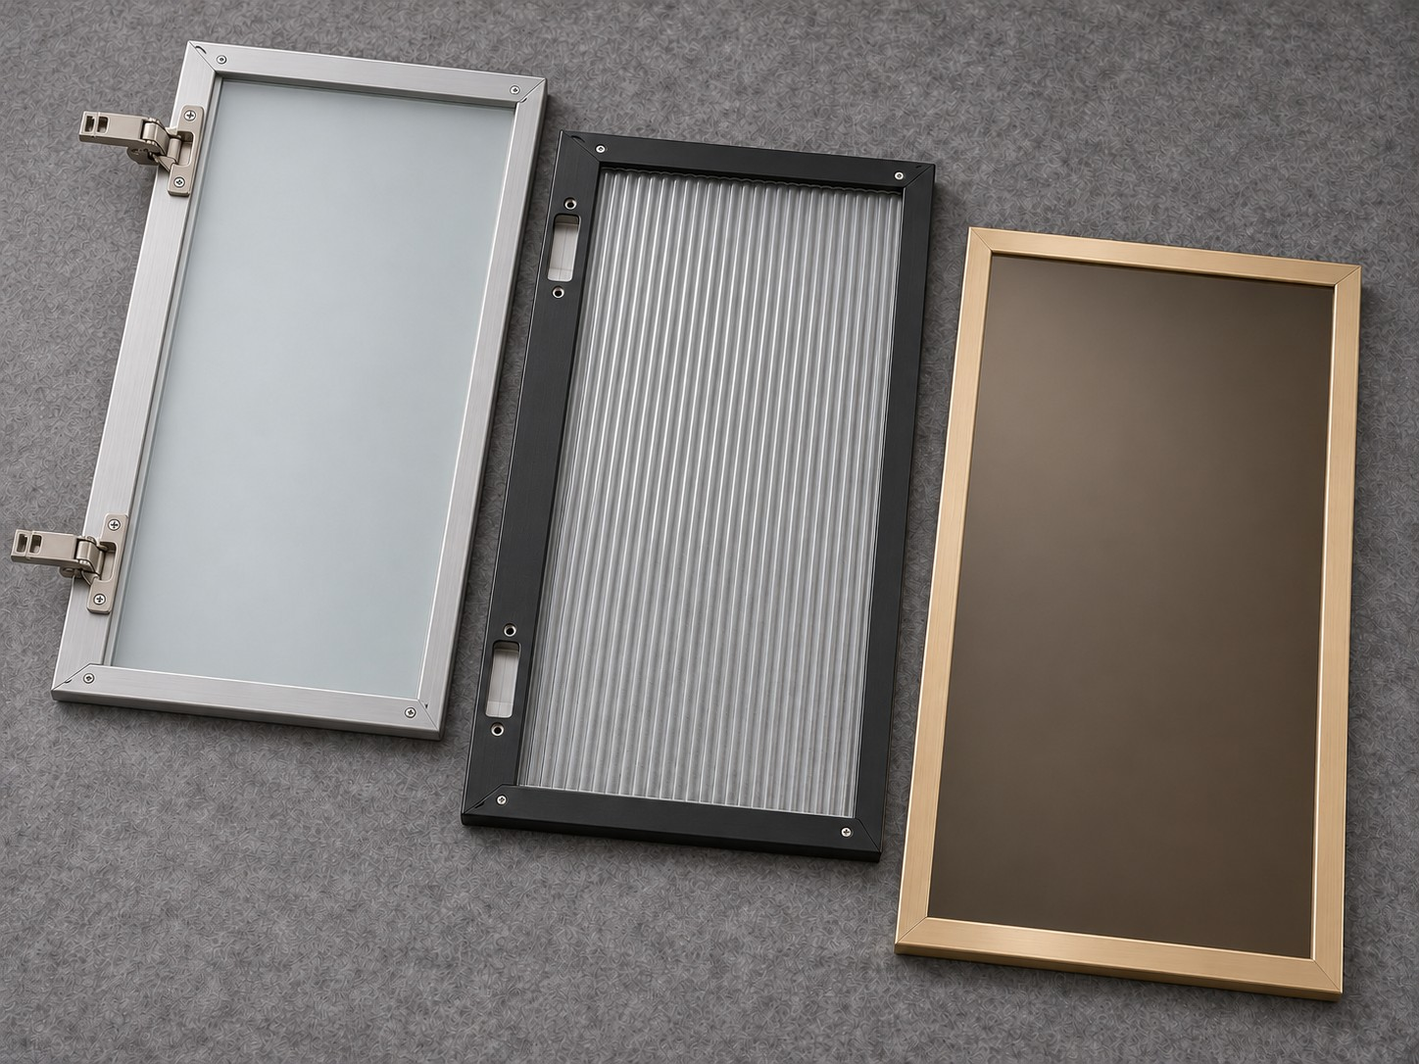
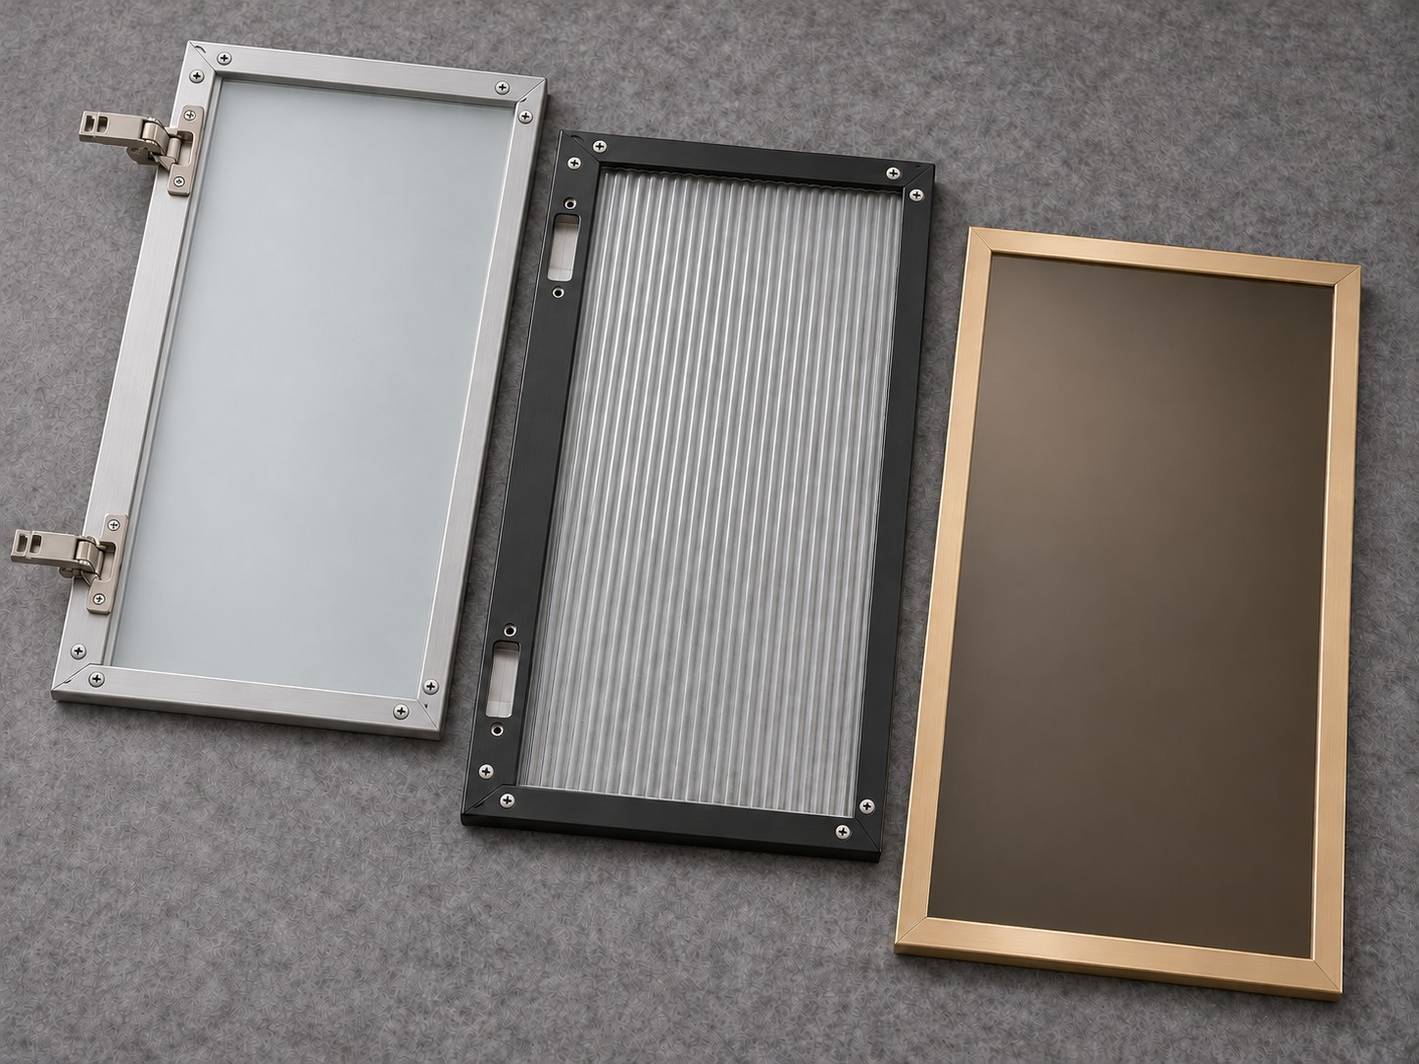
Уточнить стыки и винты рамочных фасадов

diff --git a/src/themes/alfa-glass-home-2026/agm-supply/index.html b/src/themes/alfa-glass-home-2026/agm-supply/index.html
@@ -57,7 +57,7 @@ __AGM_WP_BODY__
 <div class="product-body"><h3>Зеркала<br>в алюминиевой раме</h3><p>Круглые и прямоугольные зеркала. Цвет и профиль рамы — в едином стиле вашего объекта.</p><div class="product-meta"><span>Круг / прямоугольник</span><span>С подсветкой и без</span></div><button type="button" class="text-link" data-product="frame">Обсудить комплектацию <svg class="icon " aria-hidden="true" focusable="false"><use href="#i-arrow"></use></svg></button></div></article><article class="product-card reveal" id="product-smart">
 <button class="product-photo" type="button" data-product="smart" aria-label="Подробнее: Smart Mirror"><img src="__AGM_ASSETS__/assets/supply-smart-hq.png" width="1448" height="1086" loading="lazy" decoding="async" alt="Smart Mirror — визуализация комплектации объекта"><span class="product-tag">SMART MIRROR</span><span class="photo-zoom"><svg class="icon " aria-hidden="true" focusable="false"><use href="#i-zoom"></use></svg></span></button>
 <div class="product-body"><h3>Умные зеркала<br>со скрытым дисплеем</h3><p>Зеркальная поверхность и встроенный экран, который становится виден при включении.</p><div class="product-meta"><span>Скрытый дисплей</span><span>Функции по ТЗ</span></div><button type="button" class="text-link" data-product="smart">Обсудить комплектацию <svg class="icon " aria-hidden="true" focusable="false"><use href="#i-arrow"></use></svg></button></div></article><article class="product-card reveal" id="product-custom">
-<button class="product-photo" type="button" data-product="custom" aria-label="Подробнее: Мебельные фасады в алюминиевой раме"><img src="__AGM_ASSETS__/assets/supply-facades-glass.jpg?v=5" width="1448" height="1086" loading="lazy" decoding="async" alt="Серебристый фасад с двумя петлями, чёрный с присадкой без петель и фасад цвета шампань с бронзовым стеклом"><span class="product-tag">МЕБЕЛЬНЫЕ ФАСАДЫ</span><span class="photo-zoom"><svg class="icon " aria-hidden="true" focusable="false"><use href="#i-zoom"></use></svg></span></button>
+<button class="product-photo" type="button" data-product="custom" aria-label="Подробнее: Мебельные фасады в алюминиевой раме"><img src="__AGM_ASSETS__/assets/supply-facades-glass.jpg?v=6" width="1448" height="1086" loading="lazy" decoding="async" alt="Серебристый фасад с двумя петлями, чёрный с присадкой без петель и фасад цвета шампань с бронзовым стеклом"><span class="product-tag">МЕБЕЛЬНЫЕ ФАСАДЫ</span><span class="photo-zoom"><svg class="icon " aria-hidden="true" focusable="false"><use href="#i-zoom"></use></svg></span></button>
 <div class="product-body"><h3>Мебельные фасады<br>в алюминиевой раме</h3><p>Для каждой модели можно выбрать цвет профиля и стекло: матовое, рифлёное или тонированное. Укажите размеры и количество фасадов.</p><div class="product-meta"><span>По чертежам</span><span>Единая спецификация</span></div><button type="button" class="text-link" data-product="custom">Обсудить комплектацию <svg class="icon " aria-hidden="true" focusable="false"><use href="#i-arrow"></use></svg></button></div></article></div><p class="gallery-note">Изображения показывают возможное исполнение. Это визуализации, а не фотографии реализованных объектов.</p>
 </div></section>
 <section class="section section-soft" id="capabilities" aria-labelledby="features-title"><div class="container"><div class="section-heading"><div><div class="eyebrow">Понятные условия работы</div><h2 id="features-title">От спецификации<br>до поставки на объект</h2></div><p>Для комплексной поставки согласуем не только изделие, но и весь заказ: состав позиций, требования к упаковке, последовательность отгрузок и условия приёмки.</p></div><div class="features"><article class="feature-card reveal"><div class="icon-frame"><svg class="icon " aria-hidden="true" focusable="false"><use href="#i-factory"></use></svg></div><h3>Серийное производство</h3><p>Единая спецификация и согласованная комплектация для всей партии.</p></article><article class="feature-card reveal"><div class="icon-frame"><svg class="icon " aria-hidden="true" focusable="false"><use href="#i-file"></use></svg></div><h3>Тендеры и документы</h3><p>Рассмотрим требования закупки и подготовим предложение под ваш запрос.</p></article><article class="feature-card reveal"><div class="icon-frame"><svg class="icon " aria-hidden="true" focusable="false"><use href="#i-calendar"></use></svg></div><h3>Поставка по графику</h3><p>Согласуем сроки изготовления и последовательность отгрузок на объект.</p></article><article class="feature-card reveal"><div class="icon-frame"><svg class="icon " aria-hidden="true" focusable="false"><use href="#i-ruler"></use></svg></div><h3>Исполнение под проект</h3><p>Размеры, рамы, подсветка и функции — по техническому заданию.</p></article><article class="feature-card reveal"><div class="icon-frame"><svg class="icon " aria-hidden="true" focusable="false"><use href="#i-shield"></use></svg></div><h3>Контроль перед отгрузкой</h3><p>Проверка изделий и комплектности по согласованной спецификации. Требования к упаковке и маркировке уточняем до отгрузки.</p></article></div>
@@ -99,7 +99,7 @@ __AGM_WP_BODY__
 <dialog id="product-dialog" aria-labelledby="dialog-title"><button type="button" class="icon-btn dialog-close" data-close-dialog aria-label="Закрыть"><svg class="icon " aria-hidden="true" focusable="false"><use href="#i-close"></use></svg></button><div class="dialog-grid"><div class="dialog-image"><img id="dialog-image" src="__AGM_ASSETS__/assets/supply-led-hq.png" alt="" width="1448" height="1086"></div><div class="dialog-copy"><div class="eyebrow" id="dialog-tag">Вариант исполнения</div><h2 id="dialog-title">Зеркала для вашего проекта</h2><p id="dialog-description"></p><dl class="dialog-specs" id="dialog-specs"></dl><button type="button" class="btn btn-primary" id="select-product">Добавить в запрос <svg class="icon " aria-hidden="true" focusable="false"><use href="#i-arrow"></use></svg></button></div></div></dialog>
 <dialog id="privacy-dialog" aria-labelledby="privacy-title"><button type="button" class="icon-btn dialog-close" data-close-dialog aria-label="Закрыть"><svg class="icon " aria-hidden="true" focusable="false"><use href="#i-close"></use></svg></button><div class="privacy-copy"><div class="eyebrow">Предпросмотр страницы</div><h2 id="privacy-title">Обработка данных</h2><p>В автономном HTML файлы и данные формы не отправляются на сервер. Можно скачать запрос или открыть почтовую программу; отправка письма выполняется вами.</p><p>Перед запуском на домене владелец сайта должен подключить действующую политику обработки персональных данных и отдельный текст согласия. После их настройки форма покажет ссылки на эти документы.</p><p>Этот экран — пояснение к предпросмотру, а не юридическая политика компании.</p><button type="button" class="btn btn-secondary" data-close-dialog>Вернуться к странице</button></div></dialog>
 <div class="toast" id="toast" role="status" aria-live="polite"></div>
-<script id="product-data" type="application/json">[{"id": "led", "tag": "LED MIRROR", "title": "Зеркала<br>с подсветкой", "plain": "Зеркала с подсветкой", "img": "supply-led-hq.png", "desc": "Световой акцент для ванных комнат, гостиничных номеров и общественных пространств.", "tags": ["Форма под проект", "LED-подсветка"], "details": "Зеркала с подсветкой для серийной комплектации объекта. Форму, размеры, расположение света, управление и дополнительные функции согласуем до запуска партии.", "specs": [["Исполнение", "По размерам и чертежам"], ["Подсветка", "Фронтальная / контурная"], ["Управление", "По спецификации"], ["Количество", "По спецификации"]]}, {"id": "frame", "tag": "ALUMINIUM", "title": "Зеркала<br>в алюминиевой раме", "plain": "Зеркала в алюминиевой раме", "img": "supply-frame-hq.png", "desc": "Круглые и прямоугольные зеркала. Цвет и профиль рамы — в едином стиле вашего объекта.", "tags": ["Круг / прямоугольник", "С подсветкой и без"], "details": "Зеркала в алюминиевой раме для жилых комплексов, апартаментов и гостиниц. Утверждаем профиль, цвет, форму, размеры и вариант подсветки для каждой позиции.", "specs": [["Форма", "Круглая / прямоугольная"], ["Рама", "Алюминиевый профиль"], ["Подсветка", "С подсветкой или без"], ["Отделка", "По согласованному образцу"]]}, {"id": "smart", "tag": "SMART MIRROR", "title": "Умные зеркала<br>со скрытым дисплеем", "plain": "Smart Mirror", "img": "supply-smart-hq.png", "desc": "Зеркальная поверхность и встроенный экран, который становится виден при включении.", "tags": ["Скрытый дисплей", "Функции по ТЗ"], "details": "Smart Mirror объединяет зеркало и дисплей за зеркальной поверхностью. Диагональ экрана, интерфейс, приложения и управление подбираем под техническое задание. ОС и совместимость с устройствами Android / iOS подтверждаются для выбранной комплектации.", "specs": [["Экран", "За зеркальной поверхностью"], ["Интерфейс", "По задаче проекта"], ["Android / iOS", "Совместимость уточняется"], ["Поставка", "После согласования комплектации"]]}, {"id": "custom", "tag": "МЕБЕЛЬНЫЕ ФАСАДЫ", "title": "Мебельные фасады<br>в алюминиевой раме", "plain": "Мебельные фасады в алюминиевой раме", "img": "supply-facades-glass.jpg?v=5", "desc": "Для каждой модели можно выбрать цвет профиля и стекло: матовое, рифлёное или тонированное. Укажите размеры и количество фасадов.", "tags": ["По чертежам", "Единая спецификация"], "details": "В одну партию можно включить фасады разных размеров и сочетаний профиля со стеклом. Состав партии, упаковку, маркировку и порядок отгрузок фиксируем при согласовании заказа.", "specs": [["Размеры", "По проектной документации"], ["Комплектация", "Несколько позиций в партии"], ["Упаковка", "Согласуем под поставку"], ["Отгрузка", "Целиком или по этапам"]]}]</script>
+<script id="product-data" type="application/json">[{"id": "led", "tag": "LED MIRROR", "title": "Зеркала<br>с подсветкой", "plain": "Зеркала с подсветкой", "img": "supply-led-hq.png", "desc": "Световой акцент для ванных комнат, гостиничных номеров и общественных пространств.", "tags": ["Форма под проект", "LED-подсветка"], "details": "Зеркала с подсветкой для серийной комплектации объекта. Форму, размеры, расположение света, управление и дополнительные функции согласуем до запуска партии.", "specs": [["Исполнение", "По размерам и чертежам"], ["Подсветка", "Фронтальная / контурная"], ["Управление", "По спецификации"], ["Количество", "По спецификации"]]}, {"id": "frame", "tag": "ALUMINIUM", "title": "Зеркала<br>в алюминиевой раме", "plain": "Зеркала в алюминиевой раме", "img": "supply-frame-hq.png", "desc": "Круглые и прямоугольные зеркала. Цвет и профиль рамы — в едином стиле вашего объекта.", "tags": ["Круг / прямоугольник", "С подсветкой и без"], "details": "Зеркала в алюминиевой раме для жилых комплексов, апартаментов и гостиниц. Утверждаем профиль, цвет, форму, размеры и вариант подсветки для каждой позиции.", "specs": [["Форма", "Круглая / прямоугольная"], ["Рама", "Алюминиевый профиль"], ["Подсветка", "С подсветкой или без"], ["Отделка", "По согласованному образцу"]]}, {"id": "smart", "tag": "SMART MIRROR", "title": "Умные зеркала<br>со скрытым дисплеем", "plain": "Smart Mirror", "img": "supply-smart-hq.png", "desc": "Зеркальная поверхность и встроенный экран, который становится виден при включении.", "tags": ["Скрытый дисплей", "Функции по ТЗ"], "details": "Smart Mirror объединяет зеркало и дисплей за зеркальной поверхностью. Диагональ экрана, интерфейс, приложения и управление подбираем под техническое задание. ОС и совместимость с устройствами Android / iOS подтверждаются для выбранной комплектации.", "specs": [["Экран", "За зеркальной поверхностью"], ["Интерфейс", "По задаче проекта"], ["Android / iOS", "Совместимость уточняется"], ["Поставка", "После согласования комплектации"]]}, {"id": "custom", "tag": "МЕБЕЛЬНЫЕ ФАСАДЫ", "title": "Мебельные фасады<br>в алюминиевой раме", "plain": "Мебельные фасады в алюминиевой раме", "img": "supply-facades-glass.jpg?v=6", "desc": "Для каждой модели можно выбрать цвет профиля и стекло: матовое, рифлёное или тонированное. Укажите размеры и количество фасадов.", "tags": ["По чертежам", "Единая спецификация"], "details": "В одну партию можно включить фасады разных размеров и сочетаний профиля со стеклом. Состав партии, упаковку, маркировку и порядок отгрузок фиксируем при согласовании заказа.", "specs": [["Размеры", "По проектной документации"], ["Комплектация", "Несколько позиций в партии"], ["Упаковка", "Согласуем под поставку"], ["Отгрузка", "Целиком или по этапам"]]}]</script>
 <script defer src="__AGM_ASSETS__/js/app.js"></script>
 __AGM_WP_FOOTER__
 </body></html>
